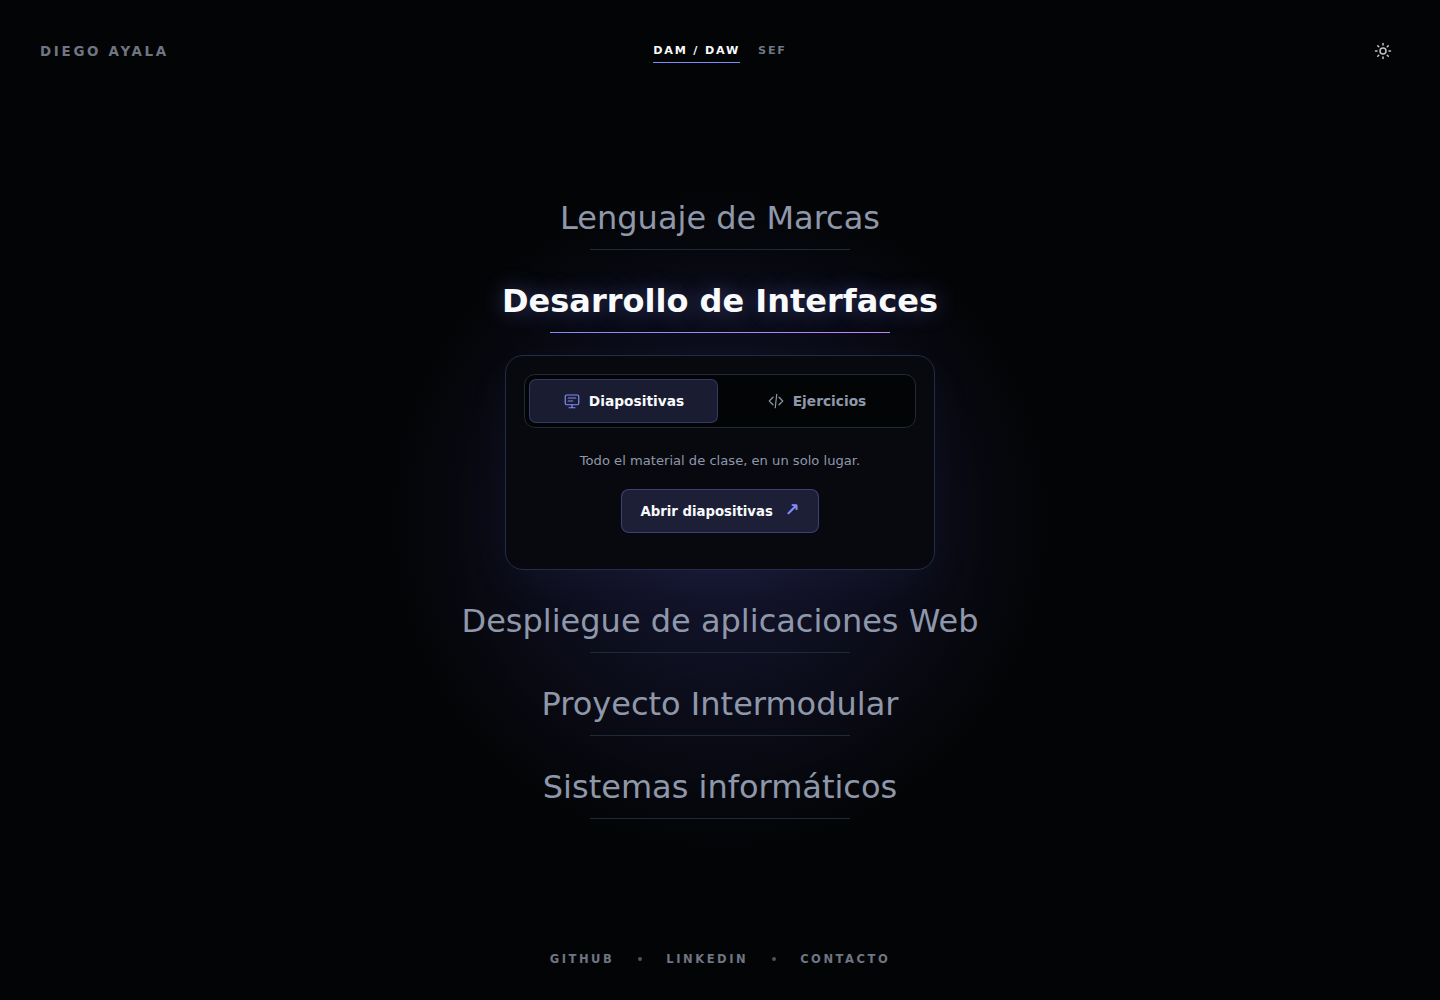
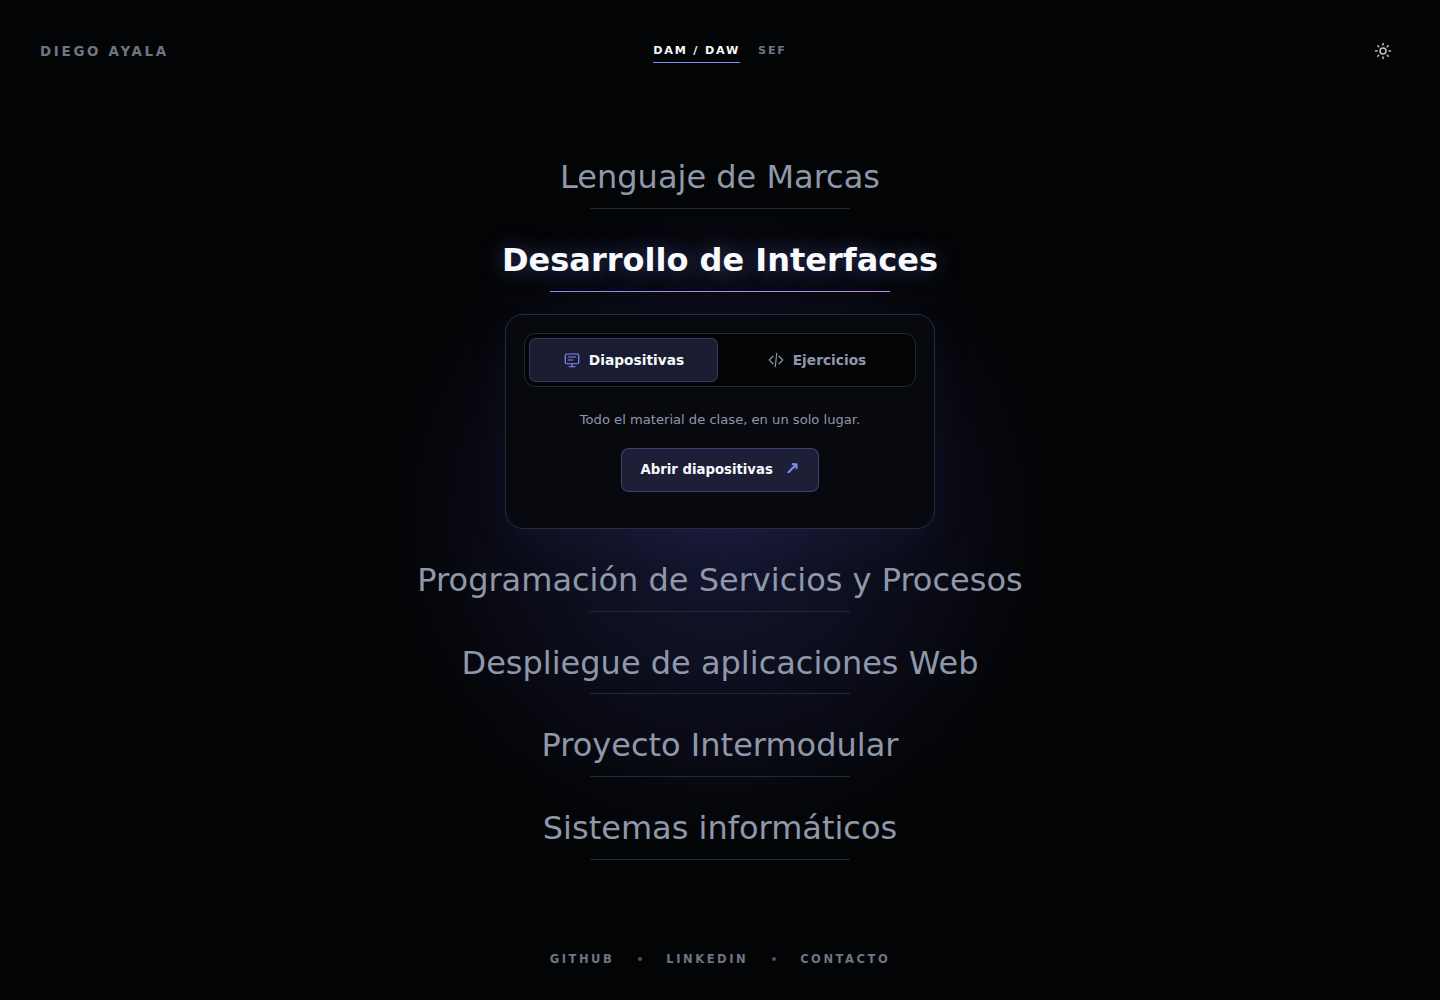
Move download controls below tables and add PSP to the menu

Changed region(s): [[0.2812, 0.155, 0.7188, 0.837]]

diff --git a/ejercicios/lm/INDICE.html b/ejercicios/lm/INDICE.html
@@ -11,12 +11,7 @@
 <main class="wrap" id="contenido">
 
 
-<section class="pdf-toolbar" aria-label="Descargar PDF de la clase">
-<a class="button" id="pdf-all" href="PDF_TAREAS.zip" download="LM 1DAW - Todas las tareas.zip">Descargar todos los PDF (18)</a>
-<button class="button" id="pdf-selected" type="button" disabled>Descargar seleccionados (0)</button>
-<button class="pdf-clear" id="pdf-clear" type="button" disabled>Quitar selección</button>
-<p id="pdf-selection-status" role="status" aria-live="polite">Selecciona tareas en la tabla. Descarga en ZIP.</p>
-</section><div class="results-heading"><h1 id="results-title">Tareas publicadas</h1><p class="results-count" id="results-count" role="status" aria-live="polite" aria-atomic="true">18 tareas</p></div>
+<div class="results-heading"><h1 id="results-title">Tareas publicadas</h1><p class="results-count" id="results-count" role="status" aria-live="polite" aria-atomic="true">18 tareas</p></div>
 
 
 <div class="table-scroll" id="task-list" role="region" aria-labelledby="results-title" tabindex="0"><table class="task-table" id="task-table" aria-labelledby="results-title">
@@ -113,4 +108,9 @@
 </tr></tbody></table></div>
 
 
-</main></body></html>
+<section class="pdf-toolbar" aria-label="Descargar PDF de la clase">
+<a class="button" id="pdf-all" href="PDF_TAREAS.zip" download="LM 1DAW - Todas las tareas.zip">Descargar todos los PDF (18)</a>
+<button class="button" id="pdf-selected" type="button" disabled>Descargar seleccionados (0)</button>
+<button class="pdf-clear" id="pdf-clear" type="button" disabled>Quitar selección</button>
+<p id="pdf-selection-status" role="status" aria-live="polite">Selecciona tareas en la tabla. Descarga en ZIP.</p>
+</section></main></body></html>

diff --git a/ejercicios/di/INDICE.html b/ejercicios/di/INDICE.html
@@ -11,12 +11,7 @@
 <main class="wrap" id="contenido">
 
 
-<section class="pdf-toolbar" aria-label="Descargar PDF de la clase">
-<a class="button" id="pdf-all" href="PDF_TAREAS.zip" download="2DAM DI - Todas las tareas.zip">Descargar todos los PDF (8)</a>
-<button class="button" id="pdf-selected" type="button" disabled>Descargar seleccionados (0)</button>
-<button class="pdf-clear" id="pdf-clear" type="button" disabled>Quitar selección</button>
-<p id="pdf-selection-status" role="status" aria-live="polite">Selecciona tareas en la tabla. Descarga en ZIP.</p>
-</section><div class="results-heading"><h1 id="results-title">Tareas publicadas</h1><p class="results-count" id="results-count" role="status" aria-live="polite" aria-atomic="true">8 tareas</p></div>
+<div class="results-heading"><h1 id="results-title">Tareas publicadas</h1><p class="results-count" id="results-count" role="status" aria-live="polite" aria-atomic="true">8 tareas</p></div>
 
 
 <div class="table-scroll" id="task-list" role="region" aria-labelledby="results-title" tabindex="0"><table class="task-table" id="task-table" aria-labelledby="results-title">
@@ -63,4 +58,9 @@
 </tr></tbody></table></div>
 
 
-</main></body></html>
+<section class="pdf-toolbar" aria-label="Descargar PDF de la clase">
+<a class="button" id="pdf-all" href="PDF_TAREAS.zip" download="2DAM DI - Todas las tareas.zip">Descargar todos los PDF (8)</a>
+<button class="button" id="pdf-selected" type="button" disabled>Descargar seleccionados (0)</button>
+<button class="pdf-clear" id="pdf-clear" type="button" disabled>Quitar selección</button>
+<p id="pdf-selection-status" role="status" aria-live="polite">Selecciona tareas en la tabla. Descarga en ZIP.</p>
+</section></main></body></html>

diff --git a/ejercicios/dapw/INDICE.html b/ejercicios/dapw/INDICE.html
@@ -11,12 +11,7 @@
 <main class="wrap" id="contenido">
 
 
-<section class="pdf-toolbar" aria-label="Descargar PDF de la clase">
-<a class="button" id="pdf-all" href="PDF_TAREAS.zip" download="DAPW - Todas las tareas.zip">Descargar todos los PDF (13)</a>
-<button class="button" id="pdf-selected" type="button" disabled>Descargar seleccionados (0)</button>
-<button class="pdf-clear" id="pdf-clear" type="button" disabled>Quitar selección</button>
-<p id="pdf-selection-status" role="status" aria-live="polite">Selecciona tareas en la tabla. Descarga en ZIP.</p>
-</section><div class="results-heading"><h1 id="results-title">Tareas publicadas</h1><p class="results-count" id="results-count" role="status" aria-live="polite" aria-atomic="true">13 tareas</p></div>
+<div class="results-heading"><h1 id="results-title">Tareas publicadas</h1><p class="results-count" id="results-count" role="status" aria-live="polite" aria-atomic="true">13 tareas</p></div>
 
 
 <div class="table-scroll" id="task-list" role="region" aria-labelledby="results-title" tabindex="0"><table class="task-table" id="task-table" aria-labelledby="results-title">
@@ -88,4 +83,9 @@
 </tr></tbody></table></div>
 
 
-</main></body></html>
+<section class="pdf-toolbar" aria-label="Descargar PDF de la clase">
+<a class="button" id="pdf-all" href="PDF_TAREAS.zip" download="DAPW - Todas las tareas.zip">Descargar todos los PDF (13)</a>
+<button class="button" id="pdf-selected" type="button" disabled>Descargar seleccionados (0)</button>
+<button class="pdf-clear" id="pdf-clear" type="button" disabled>Quitar selección</button>
+<p id="pdf-selection-status" role="status" aria-live="polite">Selecciona tareas en la tabla. Descarga en ZIP.</p>
+</section></main></body></html>

diff --git a/ejercicios/pi/INDICE.html b/ejercicios/pi/INDICE.html
@@ -11,12 +11,7 @@
 <main class="wrap" id="contenido">
 
 
-<section class="pdf-toolbar" aria-label="Descargar PDF de la clase">
-<a class="button" id="pdf-all" href="PDF_TAREAS.zip" download="PI - Todas las tareas.zip">Descargar todos los PDF (2)</a>
-<button class="button" id="pdf-selected" type="button" disabled>Descargar seleccionados (0)</button>
-<button class="pdf-clear" id="pdf-clear" type="button" disabled>Quitar selección</button>
-<p id="pdf-selection-status" role="status" aria-live="polite">Selecciona tareas en la tabla. Descarga en ZIP.</p>
-</section><div class="results-heading"><h1 id="results-title">Tareas publicadas</h1><p class="results-count" id="results-count" role="status" aria-live="polite" aria-atomic="true">2 tareas</p></div>
+<div class="results-heading"><h1 id="results-title">Tareas publicadas</h1><p class="results-count" id="results-count" role="status" aria-live="polite" aria-atomic="true">2 tareas</p></div>
 
 
 <div class="table-scroll" id="task-list" role="region" aria-labelledby="results-title" tabindex="0"><table class="task-table" id="task-table" aria-labelledby="results-title">
@@ -33,4 +28,9 @@
 </tr></tbody></table></div>
 
 
-</main></body></html>
+<section class="pdf-toolbar" aria-label="Descargar PDF de la clase">
+<a class="button" id="pdf-all" href="PDF_TAREAS.zip" download="PI - Todas las tareas.zip">Descargar todos los PDF (2)</a>
+<button class="button" id="pdf-selected" type="button" disabled>Descargar seleccionados (0)</button>
+<button class="pdf-clear" id="pdf-clear" type="button" disabled>Quitar selección</button>
+<p id="pdf-selection-status" role="status" aria-live="polite">Selecciona tareas en la tabla. Descarga en ZIP.</p>
+</section></main></body></html>

diff --git a/index.html b/index.html
@@ -84,6 +84,19 @@
           <li>
             <a
               class="subject-link"
+              data-exercises-url=""
+              href="#"
+              data-pending
+              aria-label="Programación de Servicios y Procesos pendiente de enlazar"
+            >
+              <span>Programación de Servicios y Procesos</span>
+              <i aria-hidden="true"></i>
+            </a>
+          </li>
+
+          <li>
+            <a
+              class="subject-link"
               data-exercises-url="ejercicios/dapw/INDICE.html"
               href="https://docs.google.com/presentation/d/e/2PACX-1vTw-DZSe_JoloOOoBuGynxYXvCZ31fSif3pI7ijGYLHFs9t7eIO8DFnGYahfhgsYdl-N1GGRDX2Ab1R/pub?start=false&loop=false&delayms=3000"
               target="_blank"
@@ -164,7 +177,7 @@
       <span aria-hidden="true"></span>
       <a href="https://www.linkedin.com/in/diego-ayala/" target="_blank" rel="noreferrer">LinkedIn</a>
       <span aria-hidden="true"></span>
-      <a href="mailto:diego.ayala.bernal2@gmail.com">Contacto</a>
+      <a href="mailto:diego.ayala@colegiomiralmonte.es">Contacto</a>
     </footer>
 
     <div class="toast" role="status" aria-live="polite" data-toast></div>

diff --git a/sef/index.html b/sef/index.html
@@ -93,7 +93,7 @@
       <span aria-hidden="true"></span>
       <a href="https://www.linkedin.com/in/diego-ayala/" target="_blank" rel="noreferrer">LinkedIn</a>
       <span aria-hidden="true"></span>
-      <a href="mailto:diego.ayala.bernal2@gmail.com">Contacto</a>
+      <a href="mailto:diego.ayala@colegiomiralmonte.es">Contacto</a>
     </footer>
 
     <div class="toast" role="status" aria-live="polite" data-toast></div>

diff --git a/scripts/import-exercises.py b/scripts/import-exercises.py
@@ -158,6 +158,11 @@ def copy_index(source, destination, tasks):
     html = re.sub(r'Descargar todos los PDF \(\d+\)', f"Descargar todos los PDF ({count})", html)
     html = html.replace("Todos los PDF incluye los borradores. ", "")
     html = re.sub(r'(<p class="results-count"[^>]*>)\d+ tareas', lambda m: m[1] + f"{count} tareas", html)
+    downloads = re.search(r'<section class="pdf-toolbar"[^>]*>.*?</section>', html, flags=re.S)
+    if not downloads:
+        raise ValueError(f"Faltan los controles de descarga: {source.name}")
+    html = html[:downloads.start()] + html[downloads.end():]
+    html = html.replace('</main>', downloads[0] + '</main>', 1)
     (destination / "INDICE.html").write_text(html, encoding="utf-8")
 
 

diff --git a/README.md b/README.md
@@ -30,8 +30,12 @@ abierta.
 
 En `index.html`, el `href` de cada `.subject-link` contiene la URL de Google Slides;
 `data-exercises-url` contiene la ruta a su biblioteca de ejercicios. Para enlazar
-las diapositivas de Proyecto Intermodular, sustituye `href="#"` y retira `data-pending`.
+las diapositivas de Proyecto Intermodular o Programación de Servicios y Procesos,
+sustituye `href="#"` y retira `data-pending`.
 Una URL de ejercicios vacía muestra «Próximamente» sin crear un enlace inválido.
+Programación de Servicios y Procesos está incluida en el menú; sus diapositivas
+y ejercicios quedan pendientes de enlazar.
+Los enlaces de contacto de DAM/DAW y SEF utilizan `diego.ayala@colegiomiralmonte.es`.
 Para evitar que Google pida cuenta en móvil, usa el enlace de `Archivo -> Compartir -> Publicar en la web`, con formato:
 `https://docs.google.com/presentation/d/e/ID_PUBLICADO/pub?start=false&loop=false&delayms=3000`
 
@@ -63,8 +67,9 @@ y `pdf.css` son copias literales del backup. Se comparten entre asignaturas.
 a cada biblioteca. La tabla se genera en orden cronológico y funciona sin JavaScript.
 
 La cabecera usa la marca DA de la web mediante `marca.css`, sin el subtítulo
-«Biblioteca de tareas». Los listados abren directamente con las descargas y la tabla,
-sin el bloque introductorio, el buscador ni los controles de ordenación y filtrado.
+«Biblioteca de tareas». Los listados abren directamente con la tabla; los controles
+de descarga y «Quitar selección» aparecen debajo de ella.
+No incluyen el bloque introductorio, el buscador ni los controles de ordenación y filtrado.
 También se retiran el bloque «Sobre las fechas y esta copia» y el pie de todas las
 páginas de ejercicios. La tabla muestra la selección de PDF, la tarea y sus adjuntos.
 `listado-web.css` ajusta su ancho y el título del listado. El importador conserva

diff --git a/docs/selector/README.md b/docs/selector/README.md
@@ -4,7 +4,9 @@ Propuesta: desplegar las pestañas «Diapositivas» y «Ejercicios» bajo la asi
 
 La cabecera de los ejercicios comparte la marca DA de la web y muestra solo la asignatura. Se retiran el subtítulo «Biblioteca de tareas» y el bloque «Sobre las fechas y esta copia».
 
-Los listados muestran directamente las descargas y la tabla con selección de PDF, «Tarea» y «Adjuntos». Se retiran el bloque introductorio, el buscador y los controles de ordenación y filtrado, las columnas de creación, entrega prevista, imágenes y estado, y el pie de todas las páginas de ejercicios. Las tareas aparecen en orden cronológico sin necesitar JavaScript.
+Los listados muestran directamente la tabla con selección de PDF, «Tarea» y «Adjuntos». Los botones de descarga y «Quitar selección» aparecen debajo de la tabla. Se retiran el bloque introductorio, el buscador y los controles de ordenación y filtrado, las columnas de creación, entrega prevista, imágenes y estado, y el pie de todas las páginas de ejercicios. Las tareas aparecen en orden cronológico sin necesitar JavaScript.
+
+El menú incluye Programación de Servicios y Procesos, con sus materiales pendientes de enlazar. Los enlaces de contacto de DAM/DAW y SEF apuntan a `diego.ayala@colegiomiralmonte.es`.
 
 En cada tarea, el lateral contiene únicamente el botón «Descargar PDF». Se eliminan el panel de información con fechas, estado y puntuación, y la nota bajo el botón.
 
